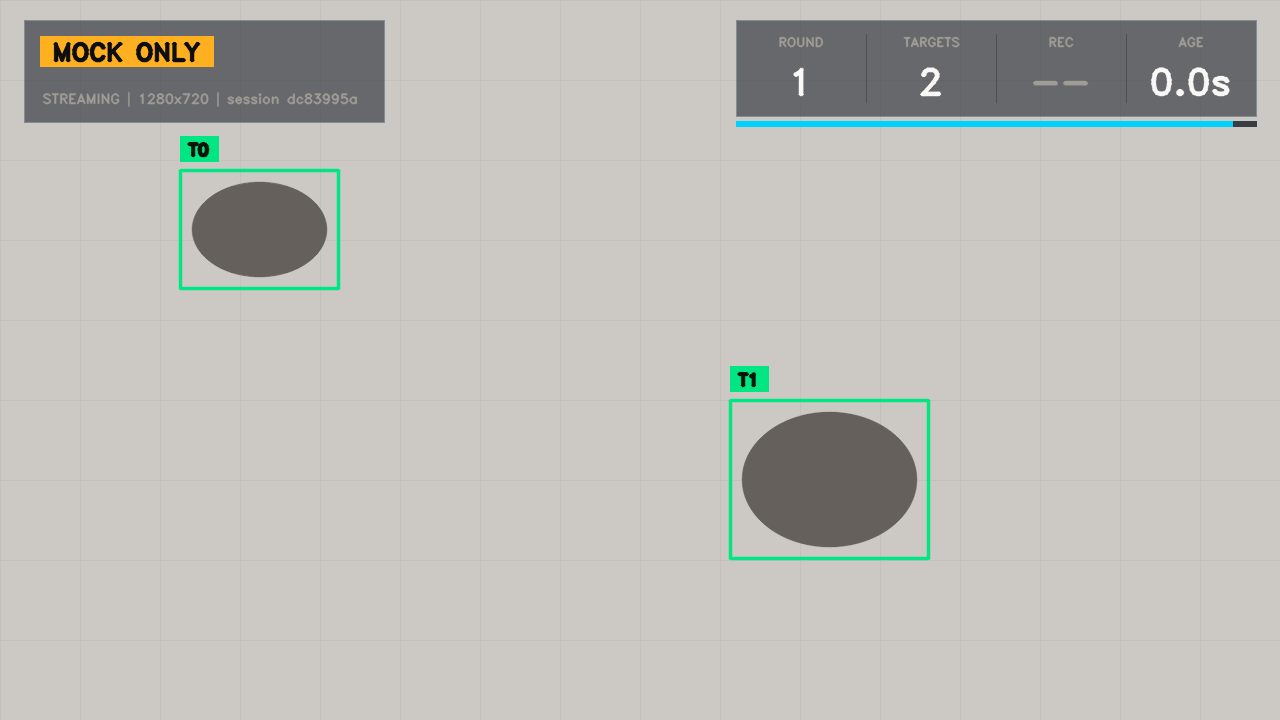
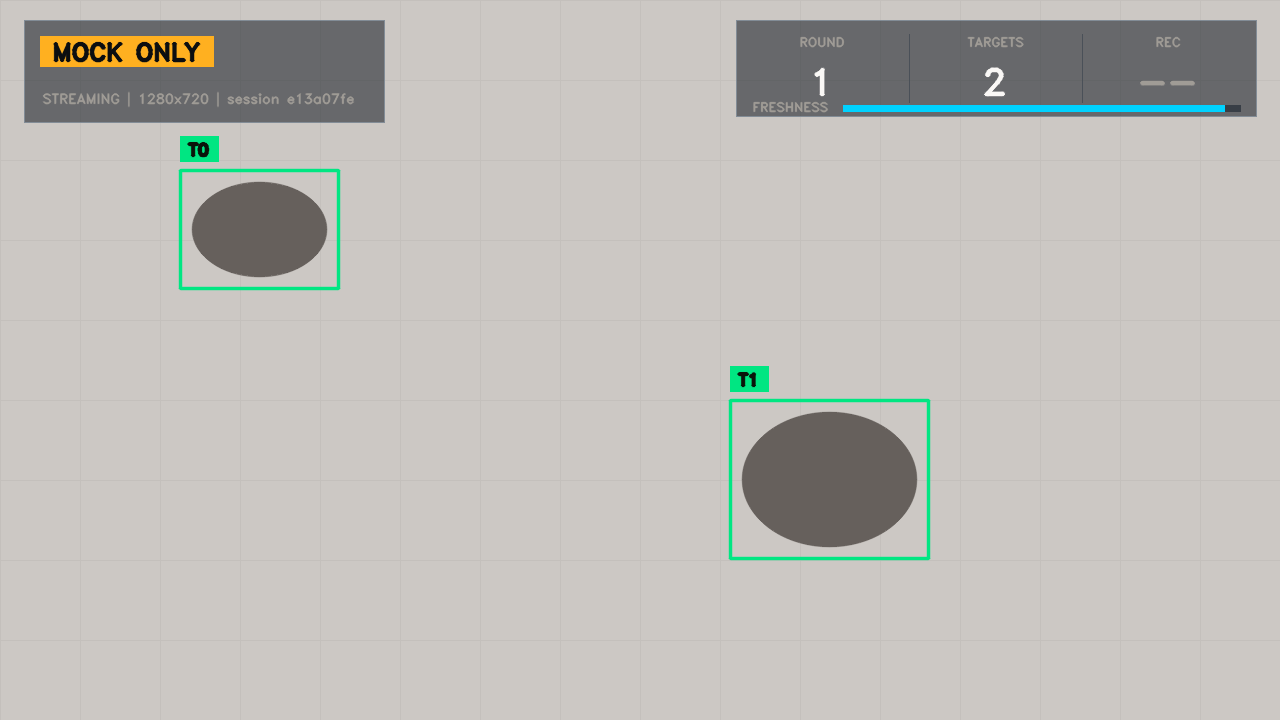
feat(client): HUD v3.1——删 AGE 格（噪声）+ 新鲜度条内嵌面板并加 FRESHNESS 标注（方案 A）

diff --git a/src/vision_client/preview.py b/src/vision_client/preview.py
@@ -4,9 +4,11 @@
 - 状态机（D2 触发 / D3 有效性撤框 / D5 重连）在 rounds.py（离板测试 test_vision_rounds.py）；
 - 批次记录与异常事件在 records.py；本文件负责取帧与 HUD 绘制。
 
-HUD 设计 v3（data/logs/2026-10-08-exe-ui-design/README.md）：
+HUD 设计 v3.1（data/logs/2026-10-08-exe-ui-design/README.md）：
 - 左上状态框：模式徽标（MOCK ONLY / LIVE / VIDEO ONLY）+ 状态行；
-- 右上四格指标面板：ROUND / TARGETS / REC / AGE + 新鲜度条（UVC-only 模式隐藏面板）；
+- 右上三格指标面板：ROUND / TARGETS / REC（UVC-only 模式隐藏面板）；
+- 面板下沿内嵌新鲜度条 + 左端 `FRESHNESS` 小标签（青条随结果年龄收缩、过期转红）；
+- AGE 数字格与浮动条已删（2026-10-09 用户评审：数字逐帧跳动是噪声；条移入面板并加标注）；
 - 目标：实线绿方框 + T 序号片。
 MOCK 结果恒标 MOCK ONLY，不代表板上识别（plan.md §3.4）。无 --endpoint 时纯视频显示
 VIDEO ONLY | UNASSOCIATED，不叠任何框。
@@ -110,7 +112,7 @@ def draw_hud(frame, hud):
     x1, y0 = frame.shape[1] - 24, 20
     x0, y1 = x1 - 520, 116
     framed(frame, (x0, y0, x1, y1))
-    cell_w = (x1 - x0) // 4
+    cell_w = (x1 - x0) // 3
     for i, (label, value, color) in enumerate(hud["metrics"]):
         cx = x0 + cell_w * i + cell_w // 2
         put(frame, label, (cx, y0 + 26), 0.42, DIM, 1, "center")
@@ -118,11 +120,14 @@ def draw_hud(frame, hud):
         if i:
             cv2.line(frame, (x0 + cell_w * i, y0 + 14), (x0 + cell_w * i, y1 - 14), SEP, 1)
     if hud["fresh"] is not None:
+        # 新鲜度条（v3.1 选项 A）：内嵌面板下沿空白区，左端小标签与格子标题同款字
         frac, color = hud["fresh"]
-        bar_y = y1 + 5
-        cv2.rectangle(frame, (x0, bar_y), (x1, bar_y + 5), (70, 62, 56), -1)
+        put(frame, "FRESHNESS", (x0 + 16, 111), 0.42, DIM, 1)
+        label_w, _ = tsize("FRESHNESS", 0.42, 1)
+        bx0, bx1 = x0 + 16 + label_w + 14, x1 - 16
+        cv2.rectangle(frame, (bx0, 105), (bx1, 111), (70, 62, 56), -1)
         if frac > 0:
-            cv2.rectangle(frame, (x0, bar_y), (x0 + int((x1 - x0) * frac), bar_y + 5), color, -1)
+            cv2.rectangle(frame, (bx0, 105), (bx0 + int((bx1 - bx0) * frac), 111), color, -1)
 
 
 def render(frame, targets, hud):
@@ -140,12 +145,12 @@ def green_pixels(image):
                 & (f[:, :, 1] - f[:, :, 2] > 60)).sum())
 
 
-def metrics_cells(packet, rec_count, age_text, value_color):
+def metrics_cells(packet, rec_count, value_color):
+    """三格指标（v3.1：AGE 已删——与新鲜度条信息重复、数字逐帧跳动抢注意力）。"""
     return [("ROUND", str(packet["check_id"]) if packet else "--", value_color),
             ("TARGETS", str(len(packet["targets"])) if packet else "--", value_color),
             ("REC", str(rec_count) if rec_count is not None else "--",
-             TEXT if rec_count is not None else DIM),
-            ("AGE", age_text, value_color)]
+             TEXT if rec_count is not None else DIM)]
 
 
 def main():
@@ -169,7 +174,7 @@ def main():
         p = mock_packet("selftest", 1, 0, 1)
         hud = {"badge": ("MOCK ONLY", AMBER),
                "status": ("STREAMING | 1280x720 | session selftest", DIM, 1),
-               "metrics": metrics_cells(p, 0, "0.0s", TEXT),
+               "metrics": metrics_cells(p, 0, TEXT),
                "fresh": (1.0, CYAN)}
         shown = render(mock_frame(p), p["targets"], hud)
         assert shown.shape == (720, 1280, 3)
@@ -214,7 +219,7 @@ def main():
                     p = mock_packet("local-preview", i, 0, i)
                     targets = p["targets"]
                     status_line = (f"LOCAL DEMO | synthetic | {w}x{h}", DIM, 1)
-                    cells = metrics_cells(p, None, "0.0s", TEXT)
+                    cells = metrics_cells(p, None, TEXT)
                     fresh_bar = None
                 else:
                     status_line = ("UNASSOCIATED | no board recognition", DIM, 1)
@@ -238,14 +243,12 @@ def main():
                     frac = max(0.0, 1.0 - age / args.max_age)
                     hud = {"badge": badge,
                            "status": (f"STREAMING | {w}x{h} | session {remote.session[:8]}", DIM, 1),
-                           "metrics": metrics_cells(remote.packet, rec_count, f"{age:.1f}s", TEXT),
+                           "metrics": metrics_cells(remote.packet, rec_count, TEXT),
                            "fresh": (frac, CYAN)}
                 else:
                     hud = {"badge": badge,
                            "status": ("WAITING FOR RESULT", AMBER_DEEP, 2),
-                           "metrics": metrics_cells(None, rec_count,
-                                                    f"{age:.1f}s" if age is not None else "--",
-                                                    AMBER_DEEP),
+                           "metrics": metrics_cells(None, rec_count, AMBER_DEEP),
                            "fresh": (1.0, RED)}
             shown = render(frame, targets, hud)
             if will_record:

diff --git a/data/logs/2026-10-09-exe-hud-implementation/render_bar_options.py b/data/logs/2026-10-09-exe-hud-implementation/render_bar_options.py
@@ -1,0 +1,65 @@
+"""新鲜度条标注方案选项渲染（非产品代码）：出三张对比图供用户挑选。
+
+10_option_a：条移入面板下沿空白区 + 左端小标签 "FRESHNESS"（推荐）
+11_option_b：条移入面板下沿 + 双端语义标 "FRESH | EXPIRED"
+12_option_c：不标注（现状：条浮在面板下方，靠 WAITING 状态文字传达）
+
+运行：set PYTHONPATH=<deps> && py render_bar_options.py
+"""
+import sys
+from pathlib import Path
+
+ROOT = Path(__file__).resolve().parents[3]
+sys.path.insert(0, str(ROOT / "src/pynq_host"))
+sys.path.insert(0, str(ROOT / "src/vision_client"))
+import cv2
+import numpy as np
+from preview import AMBER, CYAN, DIM, TEXT, metrics_cells, mock_frame, put, render, tsize
+from vision_protocol import mock_packet
+
+OUT = Path(__file__).resolve().parent
+X0, X1 = 736, 1256          # 指标面板左右边界（与 preview.draw_hud 一致）
+STRIP_Y0, STRIP_Y1 = 105, 111   # 面板内条带（数字下方空白区）
+BAR_FRAC = 0.7              # 示例：结果年龄约 30%
+
+packet = mock_packet("2761ec40-0000-0000-0000-000000000000", 7, 2, 7)
+hud = {"badge": ("MOCK ONLY", AMBER),
+       "status": ("STREAMING | 1280x720 | session 2761ec40", DIM, 1),
+       "metrics": metrics_cells(packet, 2, TEXT),
+       "fresh": None}
+base = render(mock_frame(packet), packet["targets"], hud)
+
+
+def strip_bar(img, x_from, x_to, frac):
+    """面板内条带：深色轨道 + 青色倒计填充。"""
+    cv2.rectangle(img, (x_from, STRIP_Y0), (x_to, STRIP_Y1), (70, 62, 56), -1)
+    if frac > 0:
+        cv2.rectangle(img, (x_from, STRIP_Y0), (x_from + int((x_to - x_from) * frac), STRIP_Y1),
+                      CYAN, -1)
+
+
+# 10 方案 A：左端小标签 FRESHNESS + 条
+img = base.copy()
+put(img, "FRESHNESS", (X0 + 16, STRIP_Y1), 0.42, DIM, 1)
+w, _ = tsize("FRESHNESS", 0.42, 1)
+strip_bar(img, X0 + 16 + w + 14, X1 - 16, BAR_FRAC)
+cv2.imwrite(str(OUT / "10_option_a.png"), img)
+
+
+# 11 方案 B：双端语义标 FRESH | EXPIRED + 条
+img = base.copy()
+wf, _ = tsize("FRESH", 0.42, 1)
+we, _ = tsize("EXPIRED", 0.42, 1)
+put(img, "FRESH", (X0 + 16, STRIP_Y1), 0.42, DIM, 1)
+put(img, "EXPIRED", (X1 - 16 - we, STRIP_Y1), 0.42, DIM, 1)
+strip_bar(img, X0 + 16 + wf + 14, X1 - 16 - we - 14, BAR_FRAC)
+cv2.imwrite(str(OUT / "11_option_b.png"), img)
+
+
+# 12 方案 C：不标注（现状——条浮在面板下方）
+img = base.copy()
+cv2.rectangle(img, (X0, 121), (X1, 126), (70, 62, 56), -1)
+cv2.rectangle(img, (X0, 121), (X0 + int((X1 - X0) * BAR_FRAC), 126), CYAN, -1)
+cv2.imwrite(str(OUT / "12_option_c.png"), img)
+
+print("PASS: bar label options ->", OUT)

diff --git a/data/logs/2026-10-09-exe-hud-implementation/render_hud_states.py b/data/logs/2026-10-09-exe-hud-implementation/render_hud_states.py
@@ -21,7 +21,7 @@ packet = mock_packet("b564747f-0000-0000-0000-000000000000", 7, 2, 7)
 waiting_hud = {
     "badge": ("MOCK ONLY", AMBER),
     "status": ("WAITING FOR RESULT", AMBER_DEEP, 2),
-    "metrics": metrics_cells(None, 2, "1.4s", AMBER_DEEP),
+    "metrics": metrics_cells(None, 2, AMBER_DEEP),
     "fresh": (1.0, RED),
 }
 cv2.imwrite(str(OUT / "04_waiting_state.png"), render(mock_frame(packet), None, waiting_hud))

diff --git a/src/vision_client/README.md b/src/vision_client/README.md
@@ -46,11 +46,12 @@ frame/时间/结果年龄/目标数/boxes/verdict 预留/截图名）+ `screensh
 退出；每 `--interval`（默认 0.5s，启动校验必须小于 `--max-age`，否则每轮结果在下轮触发前过期、
 画面周期性空窗）触发一轮 `POST /v1/check`；结果按 D3 判据（会话 + 配置号 + 年龄窗 `--max-age`
 默认 1.0s，**年龄按 EXE 接收时刻计量、与服务端时钟无关**）有效才叠框，过期/断联撤框显示
-WAITING；连续 3 次 HTTP 失败自动重新握手（D5）。界面为 **HUD v3**（设计规范
+WAITING；连续 3 次 HTTP 失败自动重新握手（D5）。界面为 **HUD v3.1**（设计规范
 [data/logs/2026-10-08-exe-ui-design/](../../data/logs/2026-10-08-exe-ui-design/README.md)）：
-左上状态框（模式徽标 MOCK ONLY / LIVE / VIDEO ONLY + 状态行）、右上四格指标面板
-（ROUND / TARGETS / REC / AGE + 新鲜度条；**UVC-only 模式隐藏面板**）、目标为实线绿方框 +
-T 序号片；REC 常驻计数（`--records-dir`，手动触发成功记录一条即 +1 并保持）。
+左上状态框（模式徽标 MOCK ONLY / LIVE / VIDEO ONLY + 状态行）、右上三格指标面板
+（ROUND / TARGETS / REC；**UVC-only 模式隐藏面板**）、面板下沿内嵌**新鲜度条 + `FRESHNESS`
+标签**（青条随结果年龄收缩、过期转红）、目标为实线绿方框 + T 序号片；REC 常驻计数
+（`--records-dir`，手动触发成功记录一条即 +1 并保持）。
 
 状态机（`rounds.py`，纯 stdlib）与取帧渲染解耦：preview.py 只负责取帧与画框。
 离线测试 `py sim/vision/test_vision_rounds.py` 覆盖触发节流、超龄/配置变化/断联撤框、

diff --git a/report/llm_log/2026-10-09-exe-hud-implementation.md b/report/llm_log/2026-10-09-exe-hud-implementation.md
@@ -41,3 +41,16 @@
 - 排查步骤：判据写"相对关系"（通道间差值、形状比例）而非绝对色值；跨通道运算一律先升
   int16/int32（uint8 回绕是静默错误）；同类断言集中为一处（本次 selftest 与打包测试同式）。
 - 适用范围：换题换板成立（图像处理与测试断言通用）。
+
+## 7. 追加：v3.1 评审修正（同日，实装后立即评审）
+
+- **用户观察**：AGE 数字每帧跳动（演示模式 0.5s 一轮、数字每秒变十几次）"先声夺人吸引
+  注意力，是噪声"；追问"这一栏非要保留吗" → agent 复盘确认三条：与新鲜度条信息重复；
+  决策不需要精确数字；精确值已在 `records.jsonl` → **删 AGE 格**（四格改三格）。
+- **用户追问**：给新鲜度条加标注说明含义，要求提供"可能的处理方式" → agent 出三张方案对比
+  图（A 内嵌 + `FRESHNESS` 标签 / B 内嵌 + `FRESH|EXPIRED` 双端 / C 不标注），并在出图时
+  实证了"标签放条外侧、落在浅色桌面上不可读" → 用户选 **A**。
+- **教训（追加至 #skill候选）**：动态内容按"变化是否携带信息"分级——**事件驱动的变化**
+  （ROUND 每轮 +1）是信息；**无事件也在跳的**（AGE 计时器）是噪声。判别方法：自问"不看它，
+  操作员会做错什么决定吗"（AGE：不会 → 删）。另：给控件加说明标注时，先解决"字落在什么
+  衬底上"——把控件移入既有深色面板比在浅色画面上抹字更稳。

diff --git a/data/logs/2026-10-09-exe-hud-implementation/README.md b/data/logs/2026-10-09-exe-hud-implementation/README.md
@@ -35,6 +35,18 @@
 - `anomalies.jsonl` **仅 1 条**初始 `overlay_ok`——flap 未复发（全程无 stale 翻转）
 - stdout 无 WARN（仅 libpng iCCP 提示，无害）
 
+## v3.1 评审修正（2026-10-09 实装后当日评审，用户驱动）
+
+- **删 AGE 格**（用户观察：数字逐帧跳动"先声夺人吸引注意力"，是噪声；且与新鲜度条信息
+  重复）——面板四格改三格（ROUND / TARGETS / REC）。数字年龄在 `records.jsonl` 的
+  `result_age_s` 有精确记录，联调去日志查。
+- **新鲜度条移入面板下沿 + 左端 `FRESHNESS` 小标签**（用户选定方案 A）：消除面板下方浮动
+  元素；标签与格子标题同款小字、落在深色衬底上，对比度有保证（渲染实证：标签放条外侧落在
+  浅色桌面上不可读）。三方案对比图随证据留档：`10_option_a.png`（采用）/ `11_option_b.png`
+  （弃选）/ `12_option_c.png`（不标注，弃选）。
+- 本目录 `02_endpoint_ok / 03_local_demo / 04_waiting_state / 05_uvc_only` 四张模式图、
+  `build_exe_hud_v31.log` 与 `test_*.log` 均为 v3.1 复验产物（打包三关 + 回归 7/7 PASS）。
+
 ## 边界声明
 
 MOCK 数据；真实 UVC 画面上 HUD 的观感（对比度/遮挡）待采集卡在位实测；中文类别名（M3）

diff --git a/data/logs/2026-10-08-exe-ui-design/README.md b/data/logs/2026-10-08-exe-ui-design/README.md
@@ -56,4 +56,6 @@
 **v3 定稿并已实装（2026-10-08 定稿 / 2026-10-09 实装）**：实线绿方框 + 信息框细边框
 （无刻线）+ 深琥珀等待文字。实装证据与四模式出图见
 `data/logs/2026-10-09-exe-hud-implementation/`；UVC-only 模式隐藏指标面板（用户拍板，2026-10-09）。
+**v3.1（2026-10-09，实装后用户评审）**：AGE 数字格删除（与条信息重复、逐帧跳动抢注意力）；
+新鲜度条移入面板下沿并加 `FRESHNESS` 小标签（方案 A），取消面板下方浮动条。
 01_current.png 仅为现状对照图（黑横幅即旧实现，已整体替换）。
